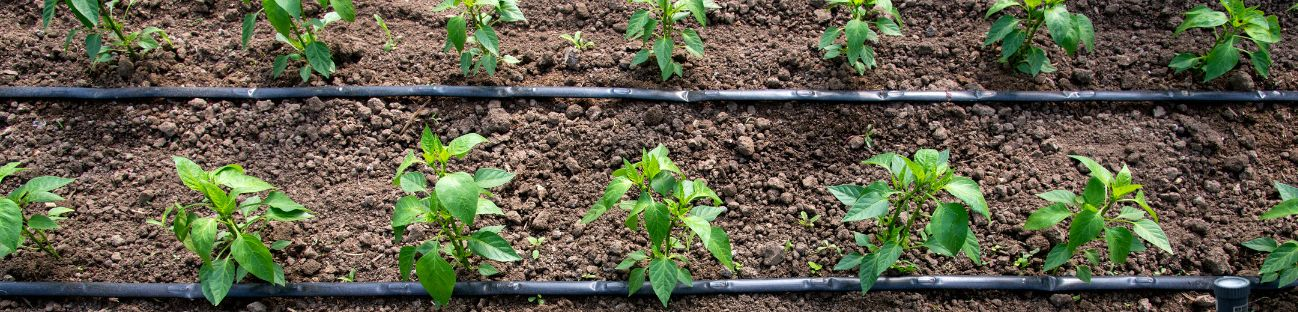
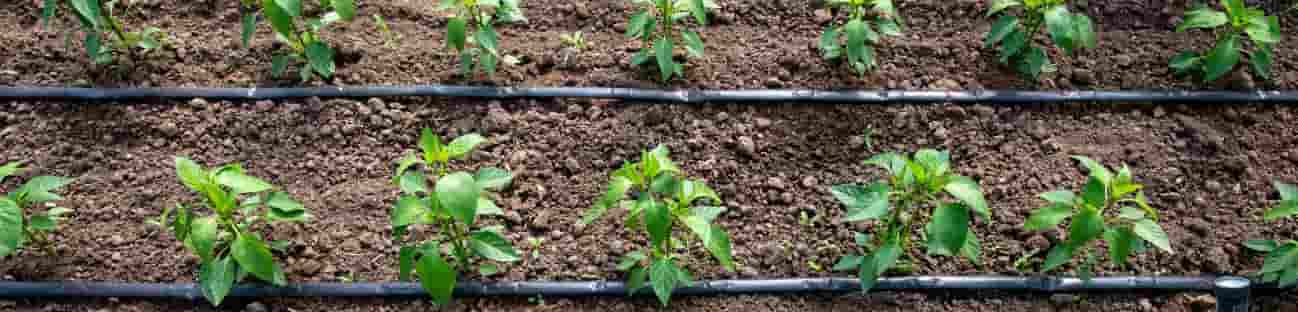
optimise home page images

diff --git a/public/index.html b/public/index.html
@@ -406,7 +406,7 @@
       </div>
       <div class="col-md-5 col-sm-12">
         <div class="block">
-          <img src="/images/wrapper-img.png" class="img-responsive" alt="Img">
+          <img src="/images/wrapper-img.webp" class="img-responsive" alt="Img">
         </div>
       </div>
     </div>
@@ -608,7 +608,7 @@
               <p>Our vision is to lead the transformation of global agriculture with precision irrigation systems, ensuring food security and environmental sustainability.</p>
 
               <div class="user">
-                <img src="/images/clients/avater-1.jpg" alt="client">
+                <img src="/images/clients/avater-1.webp" alt="client">
                 <p><span>Junfeng Qiu</span> Founder-PKYDRIP</p>
               </div>
             </div>
@@ -618,7 +618,7 @@
               <p>Our mission is to deliver sustainable, technology-driven solutions that optimize water and nutrient use while enhancing productivity for farmers and growers worldwide.</p>
 
               <div class="user">
-                <img src="/images/clients/avater-1.jpg" alt="client">
+                <img src="/images/clients/avater-1.webp" alt="client">
                 <p><span>Junfeng Qiu</span> Founder-PKYDRIP</p>
               </div>
             </div>

diff --git a/public/about/index.html b/public/about/index.html
@@ -526,7 +526,7 @@ As a key player in China&rsquo;s micro-irrigation industry, we are a member of t
               <i class="fas fa-quote-left"></i>
               <p>"Our vision is to lead the transformation of global agriculture with precision irrigation systems, ensuring food security and environmental sustainability."</p>
               <div class="user">
-                <img src="/images/clients/avater-1.jpg" alt="client">
+                <img src="/images/clients/avater-1.webp" alt="client">
                 <p><span>Junfeng Qiu</span> Founder-PKYDRIP</p>
               </div>
             </div>
@@ -535,7 +535,7 @@ As a key player in China&rsquo;s micro-irrigation industry, we are a member of t
               <i class="fas fa-quote-left"></i>
               <p>"Our mission is to deliver sustainable, technology-driven solutions that optimize water and nutrient use while enhancing productivity for farmers and growers worldwide."</p>
               <div class="user">
-                <img src="/images/clients/avater-1.jpg" alt="client">
+                <img src="/images/clients/avater-1.webp" alt="client">
                 <p><span>Junfeng Qiu</span> Founder-PKYDRIP</p>
               </div>
             </div>

diff --git a/content/english/_index.md b/content/english/_index.md
@@ -17,7 +17,7 @@ about:
   title: "About Us"
   description: "We specialize in the development and production of water-saving irrigation products, such as irrigation timers, irrigation controllers, wireless solutions, and 4G remote-controlled valves."
   content: "Our product range offers innovative, customizable, reliable, and scalable designs and systems for agriculture, landscaping, and urban greenery projects, enabling users to complete their projects more easily and efficiently."
-  image: "images/wrapper-img.png"
+  image: "images/wrapper-img.webp"
 
 
 ######################### Portfolio ###############################
@@ -85,13 +85,13 @@ funfacts:
   testimonial_slider:
   # testimonial item loop
   - name: "Junfeng Qiu"
-    image: "images/clients/avater-1.jpg"
+    image: "images/clients/avater-1.webp"
     designation: "Founder-PKYDRIP"
     content: "Our vision is to lead the transformation of global agriculture with precision irrigation systems, ensuring food security and environmental sustainability."
 
   # testimonial item loop
   - name: "Junfeng Qiu"
-    image: "images/clients/avater-1.jpg"
+    image: "images/clients/avater-1.webp"
     designation: "Founder-PKYDRIP"
     content: "Our mission is to deliver sustainable, technology-driven solutions that optimize water and nutrient use while enhancing productivity for farmers and growers worldwide."
 
